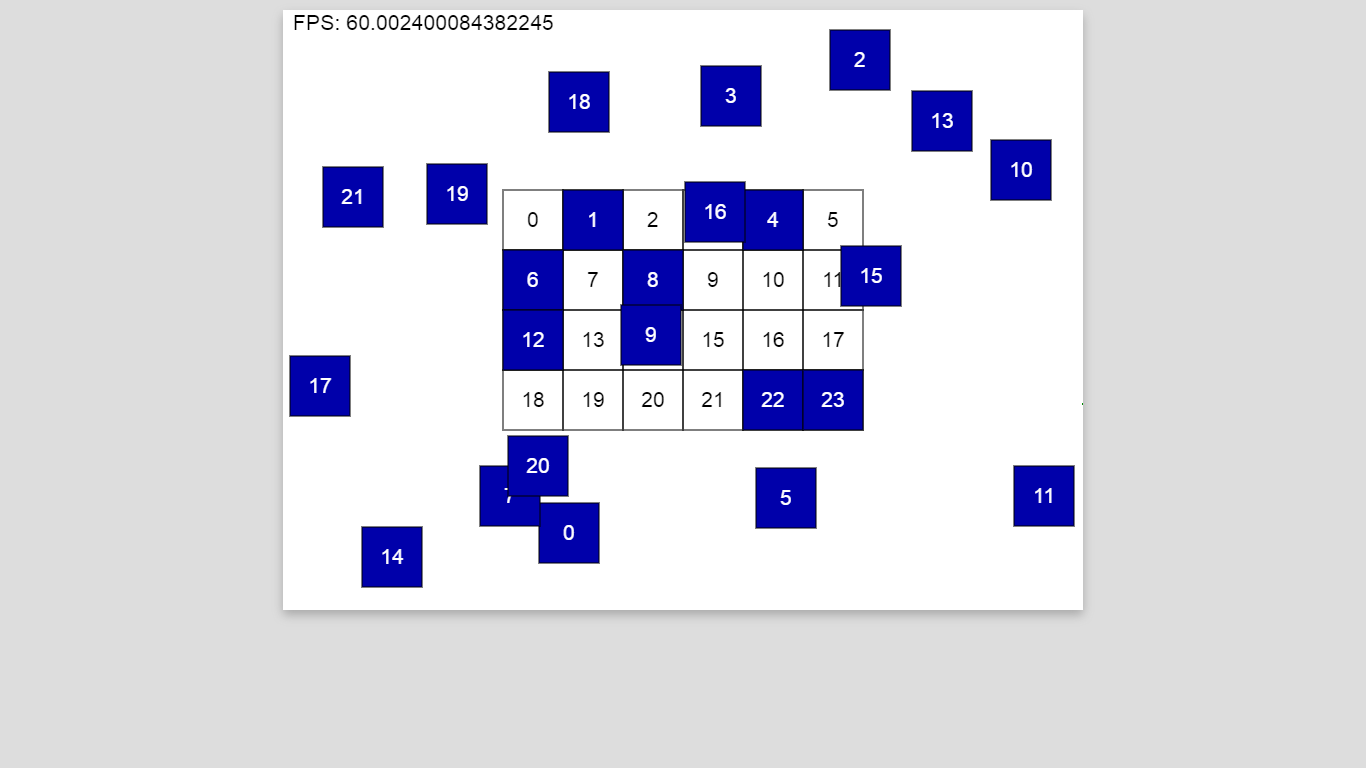
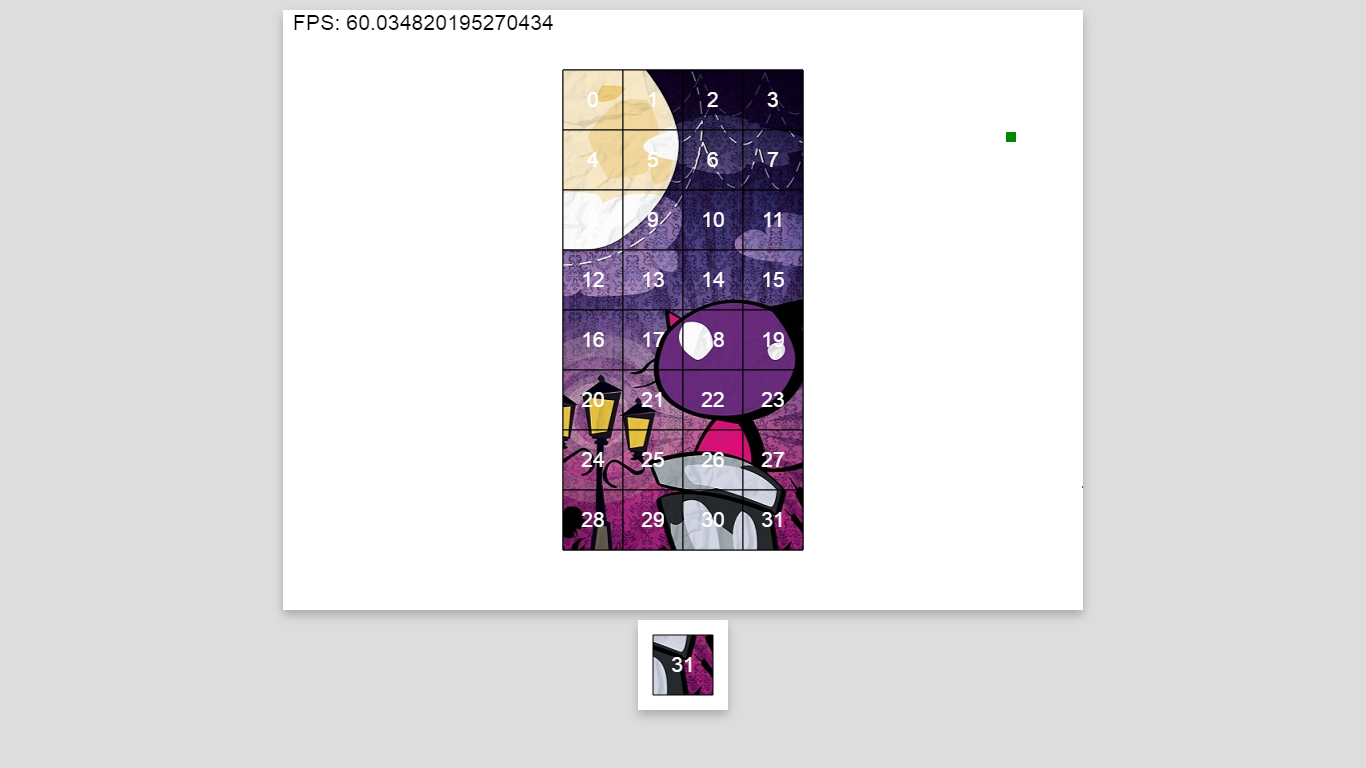
se trabaja la animacion de reto

diff --git a/example/reto/game.js b/example/reto/game.js
@@ -13,14 +13,27 @@
   var _fps = 0
 
   var size  = 60
-  var rows  = 4
-  var cols  = 6
-  var cells = rows*cells
+  var rows  = 8
+  var cols  = 4
+  var cells = rows*cols
 
+
+  var buffer = document.createElement('canvas')
+  buffer._pos   = Math.sqrt((size*2)+(size*2))
+  
+  document.body.appendChild(buffer)
+
+  buffer.width  = size+buffer._pos*2
+  buffer.height = buffer.width
+  
   var center = {
-    x: (canvas.clientWidth/2)-((cols*size)/2),
-    y: (canvas.clientHeight/2)-((rows*size)/2)
+    x: (canvas.clientWidth/2)-(((cols*size)/2)+buffer._pos),
+    y: (canvas.clientHeight/2)-(((rows*size)/2)+buffer._pos)
   }
+
+  var bufferContext = buffer.getContext('2d')
+  bufferContext.fillStyle = '#000'
+  bufferContext.font      = 'normal 16pt Arial'
 
   var mousex    = null
   var mousey    = null
@@ -33,6 +46,9 @@
   var mouse      = new DEVGAME.entity.Circle(mousex, mousey, 1)
   mouse.color    = '#080'
   mouse.dragging = false
+  var mask     = new DEVGAME.entity.Rect(0, 0, 10, 10)
+  mask.color   = mouse.color
+  mask.visible = false
 
   mouse.logic = function(){
     this.x     = mousex
@@ -54,9 +70,10 @@
     }
 
   }
+
   var grid = new DEVGAME.Container(center.x, center.y)
 
-  function Cell(id, x, y, size, piece, fill, color1, color2){
+  function Cell(id, x, y, sx, sy, size, piece, fill, color1, color2){
 
     var _x = null
     var _y = null
@@ -70,56 +87,105 @@
     }
 
     DEVGAME.entity.Rect.call(this, _x, _y, size, size)
-    this.id     = id
-    this.color1 = color1 || '#000'
-    this.color2 = color2 || '#000'
-    this.fill   = fill   || false
-    this.piece  = piece  || false
-    this.select = false
+    this.id       = id
+    this.rotation = piece ? DEVGAME.random(3)*90 : 0
+    this.rotationTransition = 0
+    this.sx       = sx*size
+    this.sy       = sy*size
+    this.color1   = color1 || '#000'
+    this.color2   = color2 || '#000'
+    this.fill     = fill   || false
+    this.piece    = piece  || false
+    this.select   = false
   }
 
   Cell.prototype = Object.create(DEVGAME.entity.Rect.prototype)
 
-  Cell.prototype.draw = function(){
-    context = this.context || this.parent.context
-    context.fillStyle = this.color1
+  Cell.prototype.drawBuffer = function(){
+
+    bufferContext.clearRect(0, 0, buffer.width, buffer.height)
+    var _x        = buffer.width/2
+    var _y        = buffer.height/2
+    var _rotation = (this.rotation + this.rotationTransition) * DEVGAME.DEG_TO_RAD
+
+    bufferContext.translate(_x, _y)
+    bufferContext.rotate(_rotation)
+    bufferContext.fillStyle = this.color1
     if (this.fill){
-      context.fillRect(this.x, this.y, this.width, this.height)
+      bufferContext.fillRect(-this.width/2, -this.height/2, this.width, this.height)
+      bufferContext.drawImage(spritesheet, this.sx, this.sy, this.width, this.height, -this.width/2, -this.height/2, this.width, this.height)
     }
-    context.strokeRect(this.x, this.y, this.width, this.height)
-    context.fillStyle = this.color2
-    context.textAlign = 'center'
-    context.fillText(this.id, this.x+(size/2), this.y+(((size)/2)+7))
+    bufferContext.strokeRect(-this.width/2, -this.height/2, this.width, this.height)
+    bufferContext.fillStyle = this.color2
+    bufferContext.textAlign = 'center'
+    bufferContext.fillText(this.id, 0, 7)
+    bufferContext.rotate(-_rotation)
+    bufferContext.translate(-_x, -_y)
+
+  }
+
+  Cell.prototype.draw = function(){
+    this.drawBuffer()
+    context = this.context || this.parent.context
+    context.drawImage(buffer, this.x, this.y, buffer.width, buffer.height)
   }
 
   Cell.prototype.move = function(mouse){
-    var _x = mouse.x-(this.width/2)
-    var _y = mouse.y-(this.height/2)
+    var _x = mouse.x-(buffer.width/2)
+    var _y = mouse.y-(buffer.height/2)
 
     this.set(_x, _y)
   }
 
+  Cell.prototype.animation = function(){
+    if (this.rotationTransition < 0) {
+      this.rotationTransition += deltaTime * 360/1000
+      if (this.rotationTransition > 0){
+        this.rotationTransition = 0
+      }
+    }
+  }
+
   Cell.prototype.logic = function(){
     if (this.piece){ 
-      
+
+      this.sx -= Math.sin(pieces.change*DEVGAME.DEG_TO_RAD)
+      this.animation()
+
       if (mouse.down === 1 && mouse.dragging === false){
+
+        var _x = this.x
+        var _y = this.y
+
+        this.x += buffer._pos
+        this.y += buffer._pos
 
         if (DEVGAME.collision.rectToCircle(this, mouse)){
           this.select = mouse.dragging = true
+          mask.set(mouse.x-(mask.width/2), mouse.y-(mask.height/2))
+          mask.visible = true
         }
-      
+
+        this.x = _x
+        this.y = _y
+
       }
 
       if (mouse.up === 1){
+        
+        if (this.select && DEVGAME.collision.rectToCircle(mask, mouse)){
+          this.rotationTransition -= 90
+          this.rotation += 90
+          this.rotation = this.rotation > 270 ? 0 : this.rotation 
+        }
+
         this.select = mouse.dragging = false
         dragging.visible = false
       }
 
       if (this.select){
 
-        dragging.setID(this.id)
         this.visible     = false
-        dragging.visible = true
         this.move(mouse)
         dragging.copy(this)
 
@@ -128,8 +194,8 @@
         this.visible     = true
 
         var _meCell = grid.children[this.id]
-  
-        if (DEVGAME.collision.rectToRect(this, _meCell)){
+
+        if (DEVGAME.collision.rectToRect(this, _meCell) && this.rotation === 0){
           this.set(_meCell.getX(), _meCell.getY())
         }
 
@@ -139,22 +205,29 @@
 
   }
 
-
   var Dragging = function(x, y, size, fill, color1, color2){
     DEVGAME.entity.Rect.call(this, x, y, size, size)
-    this.id      = 0
-    this.color1  = color1 || '#000'
-    this.color2  = color2 || '#000'
-    this.fill    = fill   || false
-    this.visible = false
+    this.id       = 0
+    this.color1   = color1 || '#000'
+    this.color2   = color2 || '#000'
+    this.fill     = fill   || false
+    this.visible  = false
   }
 
   Dragging.prototype = Object.create(DEVGAME.entity.Rect.prototype)
 
-  Dragging.prototype.setID = function(id){
-    this.id = id
+  Dragging.prototype.copy = function(cell){
+    this.id = cell.id
+    this.x  = cell.getX()
+    this.y  = cell.getY()
+    this.rotation = cell.rotation
+    this.rotationTransition = cell.rotationTransition
+    this.sx = cell.sx
+    this.sy = cell.sy
+    this.visible = true
   }
 
+  Dragging.prototype.drawBuffer = Cell.prototype.drawBuffer
   Dragging.prototype.draw = Cell.prototype.draw
 
   var dragging = new Dragging(0, 0, size, true, '#000', '#FFF')
@@ -166,13 +239,16 @@
 
       var _id = grid.children.length
 
-      grid.addChild(new Cell(_id, x, y, size))
-      pieces.addChild(new Cell(_id, DEVGAME.random(canvas.clientWidth-size), DEVGAME.random(canvas.clientHeight-size), size, true, true, '#00A', '#FFF'))
+      grid.addChild(new Cell(_id, x, y, x, y, size))
+      pieces.addChild(new Cell(_id, DEVGAME.random(canvas.clientWidth-size), DEVGAME.random(canvas.clientHeight-size), x, y, size, true, true, '#00A', '#FFF'))
 
     }
   }
 
-  stage.addChild(grid, pieces, dragging, mouse)
+  pieces.hspeed    = 0.5
+  pieces.change    = 0
+
+  stage.addChild(grid, pieces, dragging, mask, mouse)
 
   function loop(timestamp){
 
@@ -190,7 +266,7 @@
       _seg = 0
     }
 
-    if (deltaTime > 17){
+    if (deltaTime > 17*2){
       deltaTime = 0
     }
 
@@ -198,6 +274,7 @@
     //clear canvas
     context.clearRect(0, 0, canvas.clientWidth, canvas.clientHeight)
 
+    pieces.change -= 1.2
     stage.exec()
     stage.render()
 
@@ -216,7 +293,13 @@
 
   var exec = DEVGAME.requestAnimationFrame(loop)
 
-  exec(loop)
+  var spritesheet = new Image()
+  spritesheet.src = 'puzzle.jpg'
+
+  spritesheet.onload = function(){
+    exec(loop)
+  }
+
 
   document.addEventListener('mousemove', function(event){
     mousex = event.pageX - canvas.offsetLeft
